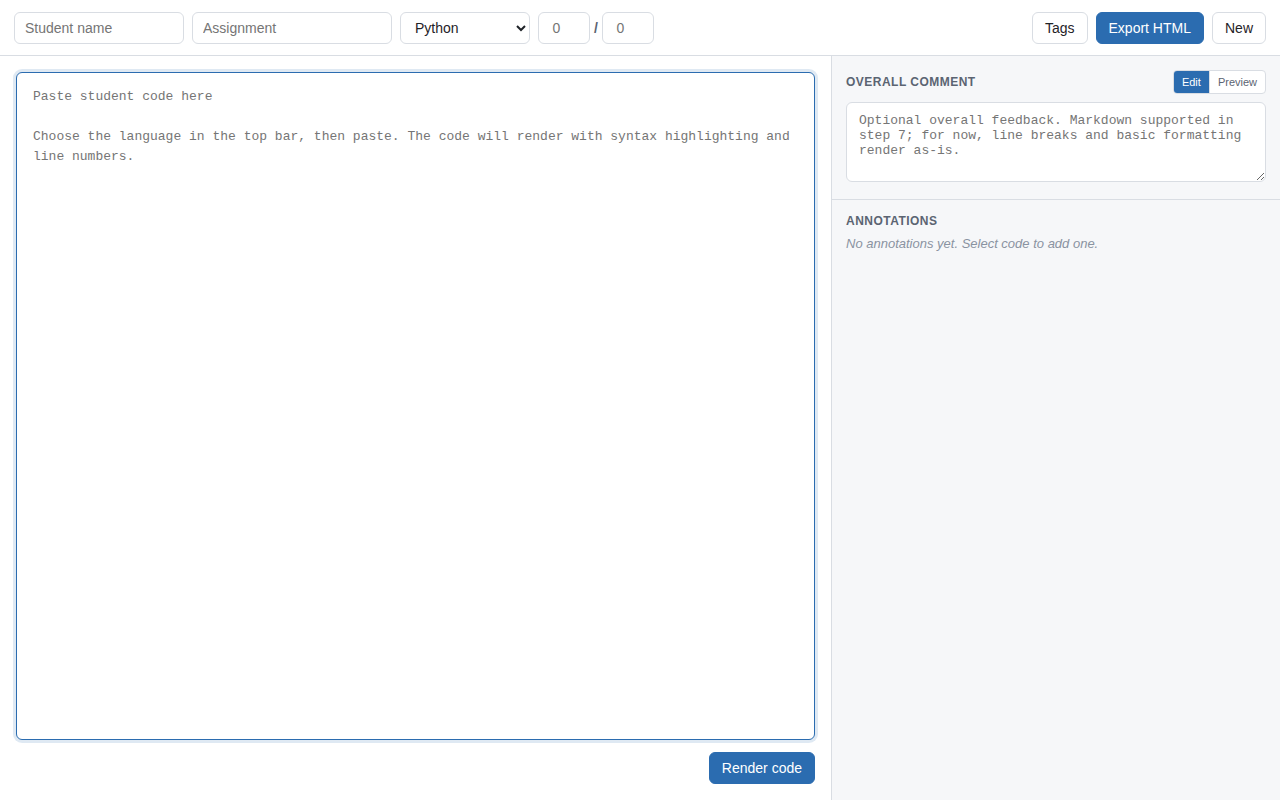
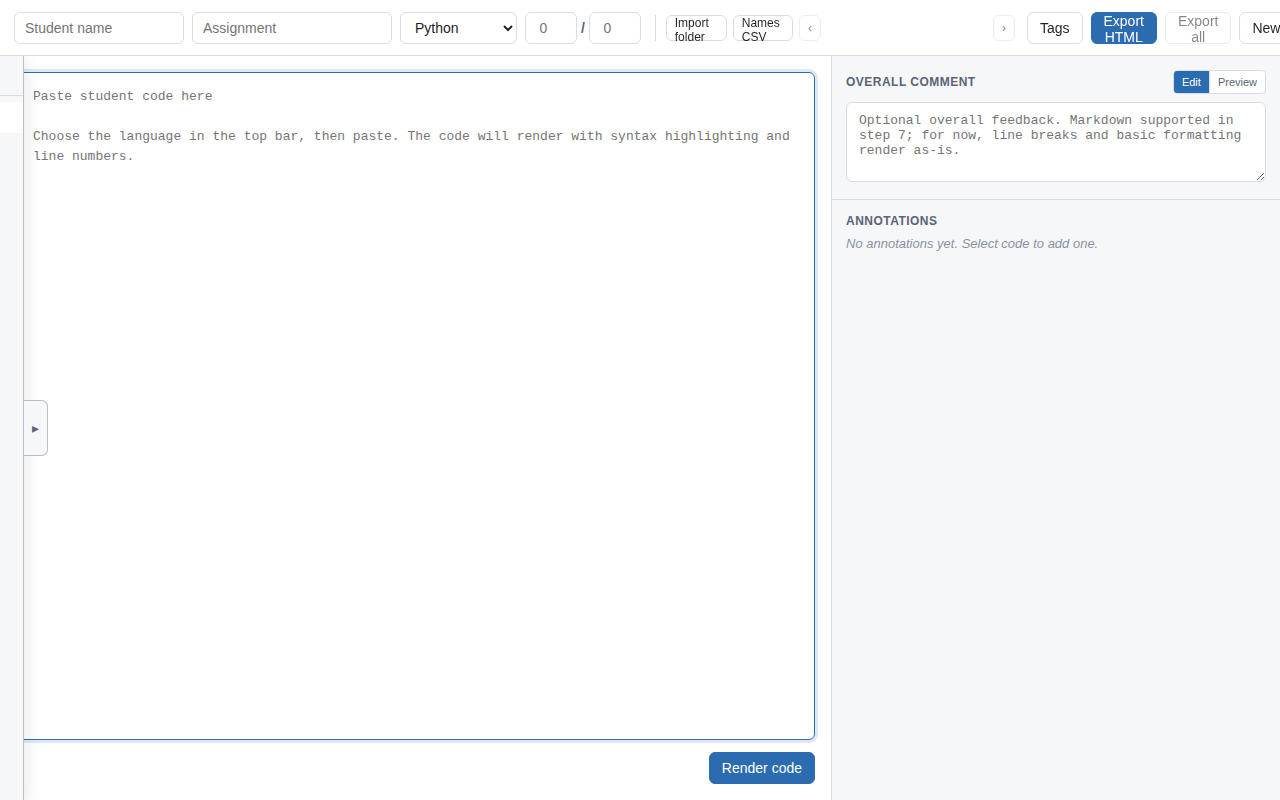
Redo demo screenshots for new version (folder import + queue)
Updates demo-screenshots.js and regenerates all 6 portfolio screenshots
to reflect the new features merged from main:
  - Import folder button and Names CSV button in the topbar
  - Export all (batch zip) button
  - Collapsible queue drawer listing all submissions
  - Prev/next navigation and queue counter

The script now creates 3 student Python files in a temp dir and
imports them via setInputFiles, populating the queue automatically.
Screenshot 02 shows the drawer expanded with all 3 students listed.

https://claude.ai/code/session_01A9jDQngfivMSQPUVtMPMaB

diff --git a/demo-screenshots.js b/demo-screenshots.js
@@ -1,6 +1,11 @@
 /**
- * Generates 6 portfolio demo screenshots of RedPen by driving the full
- * author workflow:  empty state → code entry → render → annotate → export → viewer.
+ * Generates portfolio demo screenshots of RedPen (with folder-import queue).
+ *
+ * New in this version:
+ *   - Simulates importing a folder of 3 student Python files
+ *   - Shows the collapsible queue drawer with all submissions listed
+ *   - Demonstrates annotation workflow on the active submission
+ *   - Exports the single-submission viewer
  *
  * Usage:  node demo-screenshots.js
  * Output: screenshots/ directory with 01_empty.png … 06_exported_viewer.png
@@ -14,21 +19,20 @@ const path         = require('path');
 const fs           = require('fs');
 const os           = require('os');
 
-const REPO      = path.resolve(__dirname);
-const PORT      = 3000;
-const BASE_URL  = `http://localhost:${PORT}`;
-const OUT_DIR   = path.join(REPO, 'screenshots');
+const REPO     = path.resolve(__dirname);
+const PORT     = 3000;
+const BASE_URL = `http://localhost:${PORT}`;
+const OUT_DIR  = path.join(REPO, 'screenshots');
 
 // ---------------------------------------------------------------------------
-// Example content
+// Student submission files (filename format:  {username}_{project}.{ext})
 // ---------------------------------------------------------------------------
 
-const STUDENT    = 'Jane Kim';
-const ASSIGNMENT = 'Lab 3 – Algorithms';
-const SCORE_EARNED = '17';
-const SCORE_TOTAL  = '20';
-
-const CODE = `def calculate_average(numbers):
+const STUDENTS = [
+  {
+    filename: 'janekim_lab3.py',
+    score: { earned: '17', total: '20' },
+    code: `def calculate_average(numbers):
     sum = 0
     for n in numbers:
         sum = sum + n
@@ -45,35 +49,52 @@ scores = [85, 92, 78, 96, 88]
 avg = calculate_average(scores)
 print("Average:", round(avg, 1))
 print("Grade:", letter_grade(avg))
-`;
+`,
+  },
+  {
+    filename: 'bobchen_lab3.py',
+    score: { earned: '14', total: '20' },
+    code: `def bubble_sort(arr):
+    for i in range(len(arr)):
+        for j in range(len(arr) - i - 1):
+            if arr[j] > arr[j+1]:
+                temp = arr[j]
+                arr[j] = arr[j+1]
+                arr[j+1] = temp
+    return arr
+
+nums = [64, 34, 25, 12, 22, 11, 90]
+print(bubble_sort(nums))
+`,
+  },
+  {
+    filename: 'alicew_lab3.py',
+    score: { earned: '19', total: '20' },
+    code: `import math
+
+def quadratic(a, b, c):
+    discriminant = b**2 - 4*a*c
+    if discriminant < 0:
+        return None
+    x1 = (-b + math.sqrt(discriminant)) / (2*a)
+    x2 = (-b - math.sqrt(discriminant)) / (2*a)
+    return x1, x2
+
+print(quadratic(1, -5, 6))
+`,
+  },
+];
+
+// Annotations for the active submission (janekim_lab3.py)
+const ANNOTATIONS = [
+  { lines: [1, 5],  tagLabel: 'Good',       text: 'Clean function name and straightforward logic. ✓' },
+  { lines: [2, 2],  tagLabel: 'Naming',     text: '`sum` shadows a Python built-in. Rename to `total` instead.' },
+  { lines: [3, 4],  tagLabel: 'Efficiency', text: 'Replace this loop with Python\'s built-in `sum()` function:\n\n```python\nreturn sum(numbers) / len(numbers)\n```' },
+  { lines: [7, 12], tagLabel: 'Style',      text: 'One-liner `return` statements are fine but inconsistent with the rest of the file — pick a style and stick with it.' },
+];
 
 const OVERALL_COMMENT =
   'Good structure overall. A few naming and efficiency improvements would make this more Pythonic.';
-
-// Annotations: [{ lines: [startLine, endLine], tagLabel, text }]
-// Lines are 1-indexed.
-const ANNOTATIONS = [
-  {
-    lines: [1, 5],
-    tagLabel: 'Good',
-    text: 'Clean function name and straightforward logic. ✓',
-  },
-  {
-    lines: [2, 2],
-    tagLabel: 'Naming',
-    text: '`sum` shadows a Python built-in. Rename to `total` instead.',
-  },
-  {
-    lines: [3, 4],
-    tagLabel: 'Efficiency',
-    text: 'You can replace this loop with Python\'s built-in `sum()` function:\n\n```python\nreturn sum(numbers) / len(numbers)\n```',
-  },
-  {
-    lines: [7, 12],
-    tagLabel: 'Style',
-    text: 'One-liner `return` statements are fine but inconsistent with the rest of the file — pick a style and stick with it.',
-  },
-];
 
 // ---------------------------------------------------------------------------
 // Helpers
@@ -87,26 +108,28 @@ function startServer() {
       { stdio: 'ignore' }
     );
     srv.on('error', reject);
-    // Give the server a moment to bind before we start hitting it
     setTimeout(() => resolve(srv), 800);
   });
 }
 
+function createTempFiles() {
+  const dir = path.join(os.tmpdir(), 'redpen-demo-files');
+  fs.mkdirSync(dir, { recursive: true });
+  for (const s of STUDENTS) {
+    fs.writeFileSync(path.join(dir, s.filename), s.code);
+  }
+  return dir;
+}
+
 async function shot(page, name) {
-  const file = path.join(OUT_DIR, name);
-  await page.screenshot({ path: file, fullPage: false });
+  await page.screenshot({ path: path.join(OUT_DIR, name), fullPage: false });
   console.log(`  ✓ ${name}`);
 }
 
 /**
- * Programmatically create a browser selection over the given code line range,
- * fire a mouseup on #code-lines to trigger the app's comment-button logic,
- * then click the floating "+ Comment" button.
- * Returns false if the button never becomes visible.
+ * Programmatically select code lines and open the "+ Comment" modal.
  */
 async function selectLinesAndOpenModal(page, startLine, endLine) {
-  // Use the DOM API to set a selection spanning the target lines and dispatch
-  // the mouseup event that the app listens to on #code-lines.
   const selected = await page.evaluate(([sl, el]) => {
     const lines = document.querySelectorAll('#code-lines .line');
     const startEl = lines[sl - 1];
@@ -117,9 +140,7 @@ async function selectLinesAndOpenModal(page, startLine, endLine) {
     const endContent   = endEl.querySelector('.line-content');
     if (!startContent || !endContent) return false;
 
-    // Build a range from the start of startContent to the end of endContent
     const range = document.createRange();
-    // Start at offset 0 of the first text node (or the element itself)
     const startNode = startContent.firstChild || startContent;
     const endNode   = endContent.lastChild  || endContent;
     const endOffset = endNode.nodeType === Node.TEXT_NODE
@@ -132,42 +153,28 @@ async function selectLinesAndOpenModal(page, startLine, endLine) {
     sel.removeAllRanges();
     sel.addRange(range);
 
-    // Fire mouseup on the code-lines element — the app's handler reads the
-    // selection via setTimeout(updateCommentButton, 0)
-    const codeLines = document.getElementById('code-lines');
-    codeLines.dispatchEvent(new MouseEvent('mouseup', { bubbles: true, cancelable: true }));
+    document.getElementById('code-lines').dispatchEvent(
+      new MouseEvent('mouseup', { bubbles: true, cancelable: true })
+    );
     return true;
   }, [startLine, endLine]);
 
   if (!selected) return false;
-
-  // Wait for the setTimeout(updateCommentButton, 0) to fire and re-render
   await page.waitForTimeout(400);
 
   const btn = page.locator('#comment-btn');
-  const visible = await btn.isVisible().catch(() => false);
-  if (!visible) return false;
+  if (!await btn.isVisible().catch(() => false)) return false;
   await btn.click();
   await page.waitForTimeout(300);
   return true;
 }
 
-/**
- * Inside the open comment modal: click the tag chip with the given label,
- * fill the first comment textarea, and save.
- */
 async function fillAndSaveModal(page, tagLabel, text) {
-  // Click the matching tag chip
   const chip = page.locator('.tag-chip', { hasText: tagLabel });
   if (await chip.count() > 0) await chip.first().click();
   await page.waitForTimeout(100);
-
-  // Fill the first comment textarea
-  const textarea = page.locator('#comment-blocks .comment-block-textarea').first();
-  await textarea.fill(text);
+  await page.locator('#comment-blocks .comment-block-textarea').first().fill(text);
   await page.waitForTimeout(100);
-
-  // Save
   await page.keyboard.press('Control+Enter');
   await page.waitForTimeout(400);
 }
@@ -178,6 +185,8 @@ async function fillAndSaveModal(page, tagLabel, text) {
 
 (async () => {
   fs.mkdirSync(OUT_DIR, { recursive: true });
+  const importDir = createTempFiles();
+
   console.log('Starting http-server…');
   const server = await startServer();
 
@@ -192,7 +201,8 @@ async function fillAndSaveModal(page, tagLabel, text) {
     await page.setViewportSize({ width: 1280, height: 800 });
 
     // ------------------------------------------------------------------
-    // 01 – Empty / initial state
+    // 01 – Empty state (shows new topbar with Import folder / Names CSV /
+    //      Export all buttons)
     // ------------------------------------------------------------------
     console.log('\n[01] Empty state');
     await page.goto(`${BASE_URL}/index.html`, { waitUntil: 'networkidle' });
@@ -200,97 +210,97 @@ async function fillAndSaveModal(page, tagLabel, text) {
     await shot(page, '01_empty.png');
 
     // ------------------------------------------------------------------
-    // 02 – Code entry (filled in but not yet rendered)
+    // 02 – Queue loaded: import 3 student files then open the drawer
     // ------------------------------------------------------------------
-    console.log('[02] Code entry');
-    await page.fill('#student-name',    STUDENT);
-    await page.fill('#assignment-name', ASSIGNMENT);
-    await page.fill('#score-earned',    SCORE_EARNED);
-    await page.fill('#score-total',     SCORE_TOTAL);
-    // Default language is python — no change needed
-    await page.fill('#code-input', CODE);
-    await page.waitForTimeout(200);
-    await shot(page, '02_code_input.png');
+    console.log('[02] Import folder → queue drawer');
+    // setInputFiles simulates picking a folder; each file gets its own entry.
+    await page.setInputFiles('#folder-input', importDir);
+    // importFolder is async (reads file text); give it time to settle.
+    await page.waitForTimeout(800);
+
+    // Expand the queue drawer
+    await page.click('#queue-drawer-handle');
+    await page.waitForTimeout(300);
+
+    await shot(page, '02_queue_loaded.png');
 
     // ------------------------------------------------------------------
-    // 03 – Rendered (syntax-highlighted, no annotations yet)
+    // 03 – Rendered code for the active submission (janekim — auto-rendered
+    //      on import because the file has content)
     // ------------------------------------------------------------------
-    console.log('[03] Rendered code');
-    await page.click('#btn-render');
-    await page.waitForTimeout(600);
+    console.log('[03] Rendered code – Jane Kim');
+    // Collapse the drawer so the code panel is fully visible
+    await page.click('#queue-drawer-handle');
+    await page.waitForTimeout(200);
+
+    // Set score for the active submission
+    await page.fill('#score-earned', STUDENTS[0].score.earned);
+    await page.fill('#score-total',  STUDENTS[0].score.total);
+    await page.waitForTimeout(200);
+
     await shot(page, '03_rendered.png');
 
     // ------------------------------------------------------------------
-    // 04 – Annotation modal open (first annotation)
+    // 04 – Annotation modal open (first annotation: lines 1-5, "Good")
     // ------------------------------------------------------------------
     console.log('[04] Annotation modal');
     const firstA = ANNOTATIONS[0];
-    const opened = await selectLinesAndOpenModal(page, firstA.lines[0], firstA.lines[1]);
+    let opened = await selectLinesAndOpenModal(page, firstA.lines[0], firstA.lines[1]);
     if (!opened) {
-      console.warn('  ! Comment button not visible — retrying with a tighter selection');
-      // Fallback: try selecting just the first line
-      await selectLinesAndOpenModal(page, firstA.lines[0], firstA.lines[0]);
+      console.warn('  ! Retrying with single line');
+      opened = await selectLinesAndOpenModal(page, firstA.lines[0], firstA.lines[0]);
     }
-    await page.waitForTimeout(300);
-    // Fill tag and text so the modal looks realistic in the screenshot
+    await page.waitForTimeout(200);
+
+    // Pre-fill tag + text for a realistic screenshot
     const chip0 = page.locator('.tag-chip', { hasText: firstA.tagLabel });
     if (await chip0.count() > 0) await chip0.first().click();
-    const textarea0 = page.locator('#comment-blocks .comment-block-textarea').first();
-    await textarea0.fill(firstA.text);
+    await page.locator('#comment-blocks .comment-block-textarea').first().fill(firstA.text);
     await page.waitForTimeout(200);
+
     await shot(page, '04_annotation_modal.png');
 
-    // Save this annotation
+    // Save first annotation
     await page.keyboard.press('Control+Enter');
     await page.waitForTimeout(500);
 
     // ------------------------------------------------------------------
-    // Add remaining annotations (2, 3, 4)
+    // Add remaining annotations silently
     // ------------------------------------------------------------------
     console.log('[05] Adding remaining annotations…');
     for (const ann of ANNOTATIONS.slice(1)) {
       const ok = await selectLinesAndOpenModal(page, ann.lines[0], ann.lines[1]);
-      if (ok) {
-        await fillAndSaveModal(page, ann.tagLabel, ann.text);
-      } else {
-        console.warn(`  ! Skipped annotation on lines ${ann.lines.join('-')}`);
-      }
+      if (ok) await fillAndSaveModal(page, ann.tagLabel, ann.text);
+      else console.warn(`  ! Skipped annotation on lines ${ann.lines.join('-')}`);
     }
 
-    // Add overall comment
     await page.fill('#overall-comment', OVERALL_COMMENT);
     await page.waitForTimeout(200);
-
-    // Dismiss any open tooltip / selection
     await page.keyboard.press('Escape');
-    await page.waitForTimeout(300);
-
-    // Click somewhere neutral to deselect
+    await page.waitForTimeout(200);
     await page.click('body', { position: { x: 10, y: 10 } });
     await page.waitForTimeout(300);
 
     await shot(page, '05_annotations_view.png');
 
     // ------------------------------------------------------------------
-    // 06 – Exported viewer with tooltip
+    // 06 – Exported viewer with tooltip open
     // ------------------------------------------------------------------
-    console.log('[06] Export + viewer');
-    const tmpDir = os.tmpdir();
+    console.log('[06] Export → viewer');
+    const tmpOut = path.join(os.tmpdir(), 'redpen-export.html');
 
     const [download] = await Promise.all([
       page.waitForEvent('download'),
       page.click('#btn-export'),
     ]);
-    const exportedPath = path.join(tmpDir, 'redpen-export.html');
-    await download.saveAs(exportedPath);
-    console.log(`  Saved export to ${exportedPath}`);
+    await download.saveAs(tmpOut);
+    console.log(`  Saved export to ${tmpOut}`);
 
     const viewerPage = await browser.newPage();
     await viewerPage.setViewportSize({ width: 1280, height: 800 });
-    await viewerPage.goto(`file://${exportedPath}`, { waitUntil: 'networkidle' });
+    await viewerPage.goto(`file://${tmpOut}`, { waitUntil: 'networkidle' });
     await viewerPage.waitForTimeout(600);
 
-    // Click the first annotation highlight to pop a tooltip
     const firstHighlight = viewerPage.locator('.annotation').first();
     if (await firstHighlight.count() > 0) {
       await firstHighlight.first().click();
